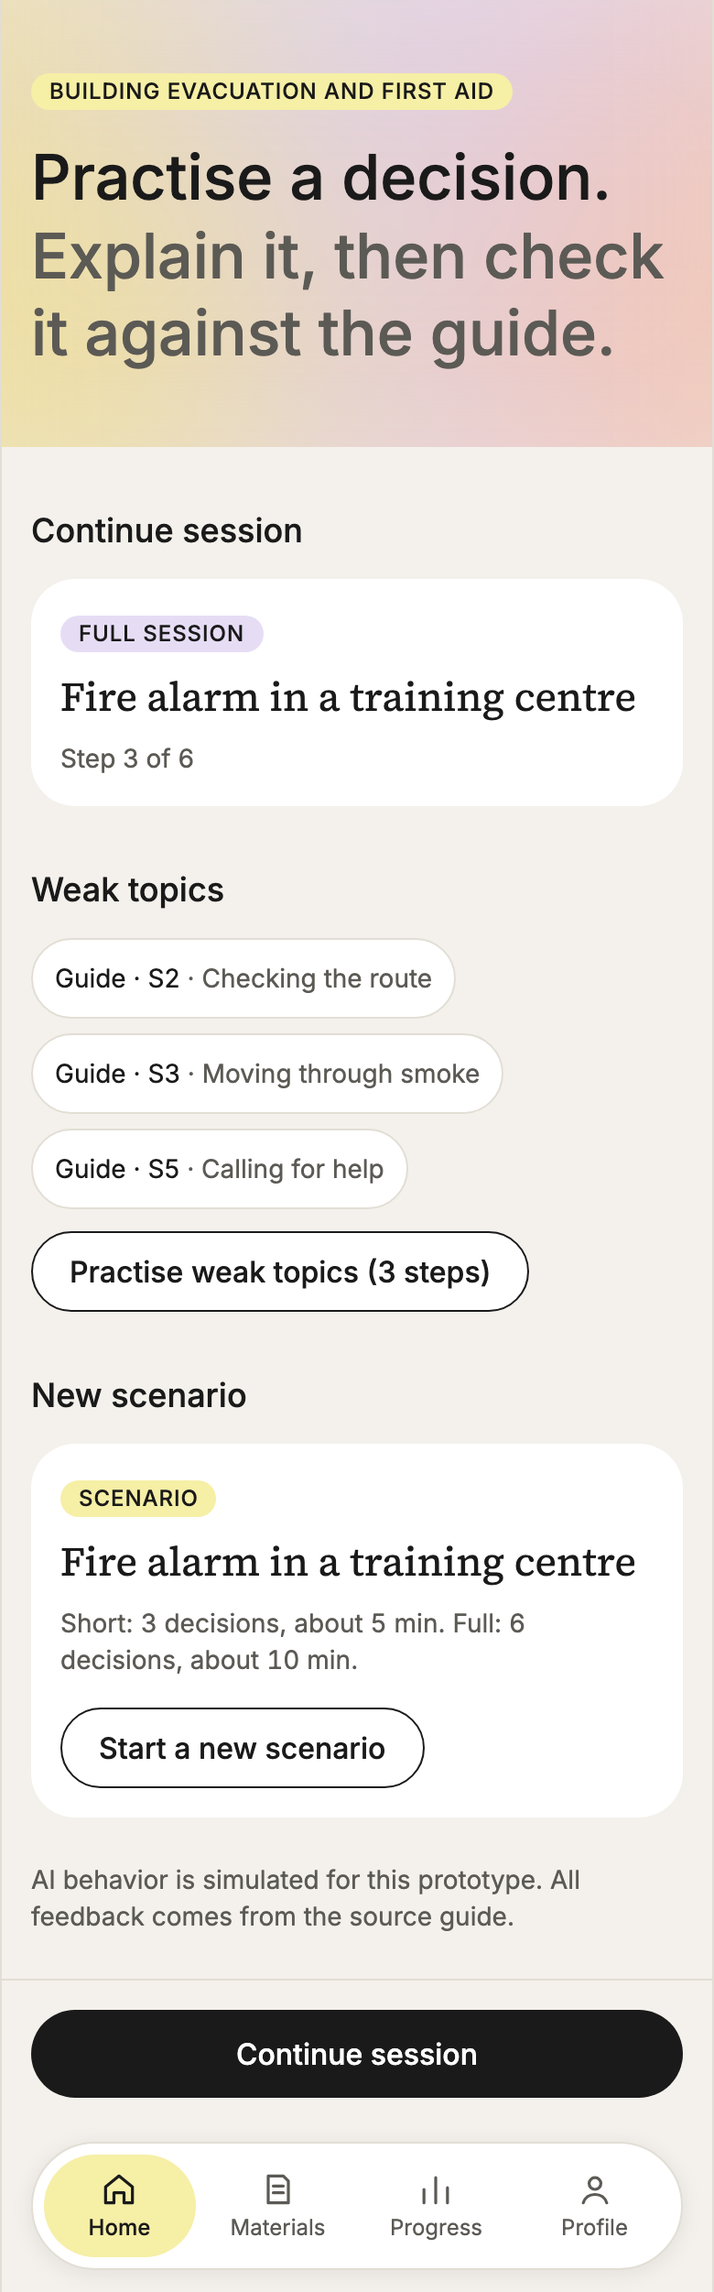
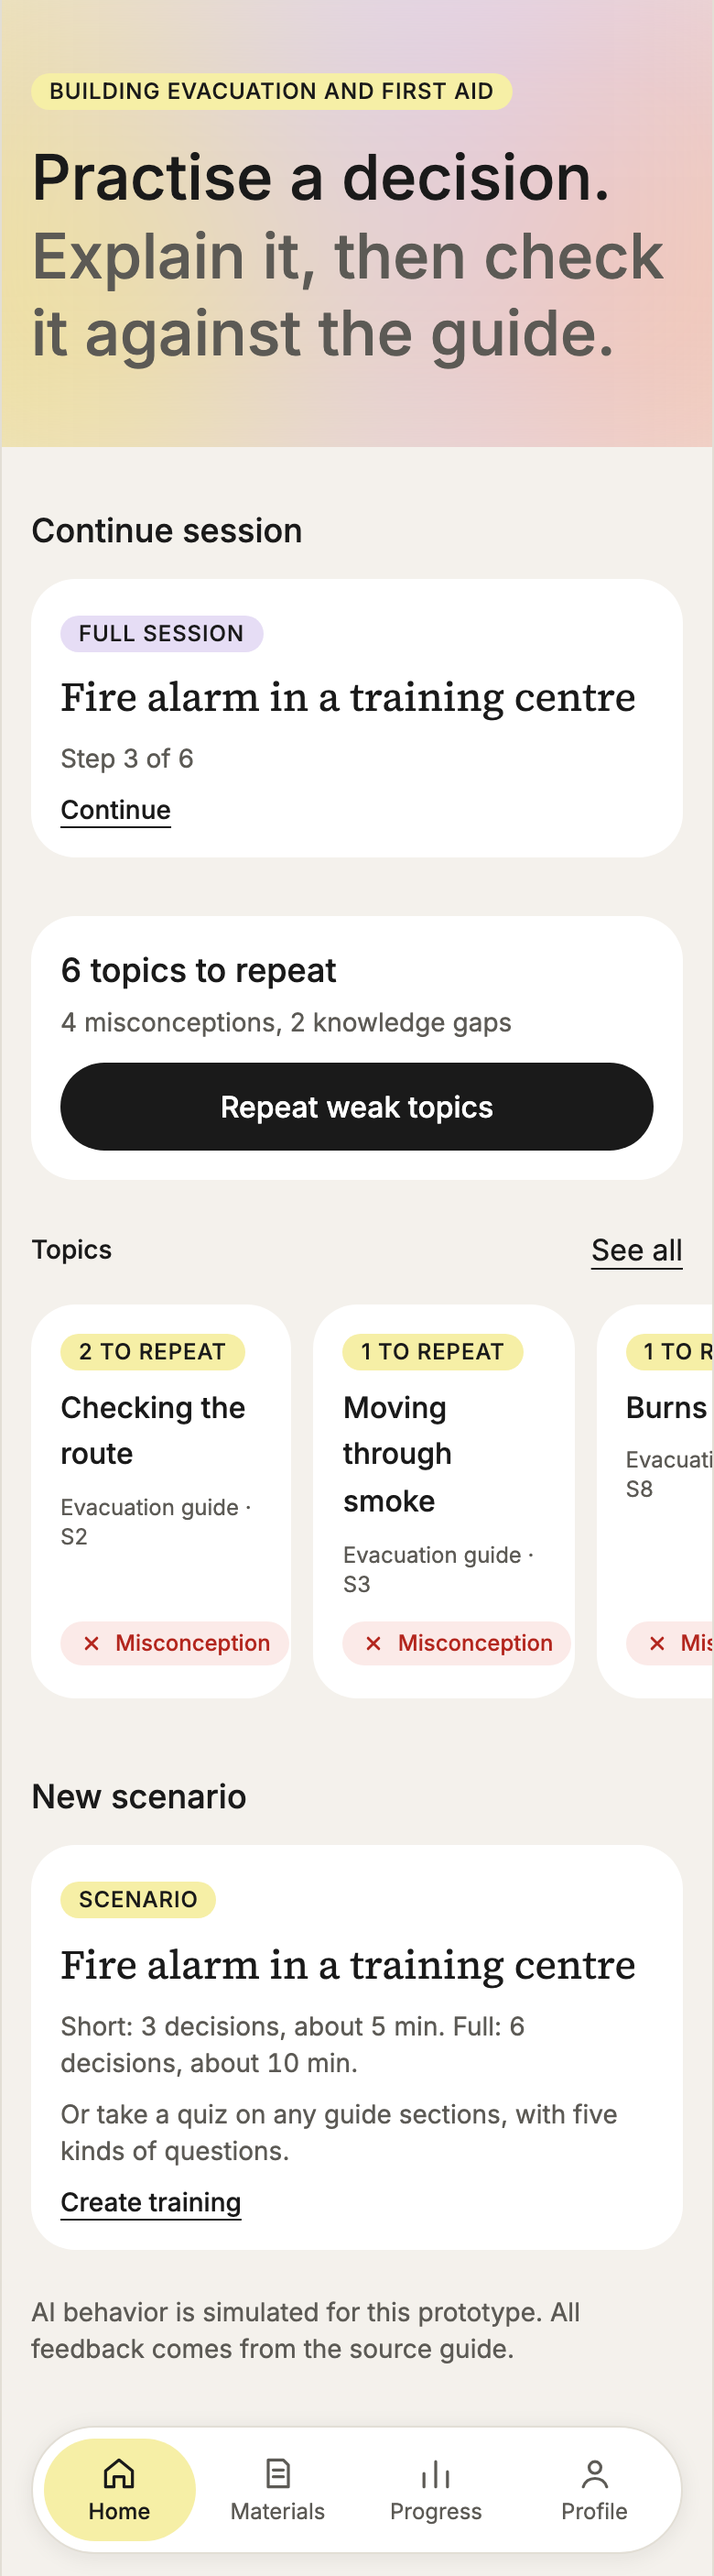
feat: repeat summary card and topic row on Home and Progress
One summary card with the topics to repeat, their error-type counts and
Repeat weak topics, and a sideways row of up to five topic cards that each
repeat one topic. Continue session and New scenario become tappable cards,
and Home no longer has a fixed button over its content.

diff --git a/components/HomeView/HomeView.tsx b/components/HomeView/HomeView.tsx
@@ -1,29 +1,26 @@
 "use client";
 
-import { ActionBar } from "@/components/ActionBar/ActionBar";
-import { ButtonLink } from "@/components/Button/Button";
-import { Card } from "@/components/Card/Card";
+import Link from "next/link";
 import { Gradient } from "@/components/Gradient/Gradient";
+import { RepeatSummary } from "@/components/RepeatSummary/RepeatSummary";
 import { Tag } from "@/components/Tag/Tag";
-import { WeakTopics } from "@/components/WeakTopics/WeakTopics";
 import { sessionLabel } from "@/lib/progress";
 import { getScenario, scenario, sessionLengths } from "@/lib/scenario";
 import type { ScoredItem } from "@/lib/scoring";
 import type { Session } from "@/lib/session";
+import type { WeakTopic } from "@/lib/weak-topics";
 import { isQuiz, isRepeatRound, itemCount } from "@/lib/session";
 
 export function HomeView({
   directionTitle,
   unfinished,
   weakItems,
-  onRepeatSteps,
-  onRepeatQuestions,
+  onRepeat,
 }: {
   directionTitle: string;
   unfinished: Session | null;
   weakItems: ScoredItem[];
-  onRepeatSteps: (stepIds: string[]) => void;
-  onRepeatQuestions: (questionIds: string[], sections: string[]) => void;
+  onRepeat: (topics: WeakTopic[]) => void;
 }) {
   return (
     <div className="flex flex-col gap-8">
@@ -43,7 +40,10 @@ export function HomeView({
           <h2 id="continue-title" className="text-lg font-medium">
             Continue session
           </h2>
-          <Card className="flex flex-col gap-2">
+          <Link
+            href="/session"
+            className="flex flex-col gap-2 rounded-card bg-surface p-4 hover:bg-surface-muted"
+          >
             <div>
               <Tag
                 tone={
@@ -70,21 +70,21 @@ export function HomeView({
               {isRepeatRound(unfinished) ? "Item" : isQuiz(unfinished) ? "Question" : "Step"}{" "}
               {unfinished.index + 1} of {itemCount(unfinished)}
             </p>
-          </Card>
+            <span className="text-sm font-medium underline underline-offset-4">Continue</span>
+          </Link>
         </section>
       )}
 
-      <WeakTopics
-        weakItems={weakItems}
-        onRepeatSteps={onRepeatSteps}
-        onRepeatQuestions={onRepeatQuestions}
-      />
+      <RepeatSummary weakItems={weakItems} onRepeat={onRepeat} />
 
       <section aria-labelledby="new-title" className="flex flex-col gap-3">
         <h2 id="new-title" className="text-lg font-medium">
           New scenario
         </h2>
-        <Card className="flex flex-col gap-2">
+        <Link
+          href="/training/evacuation-guide"
+          className="flex flex-col gap-2 rounded-card bg-surface p-4 hover:bg-surface-muted"
+        >
           <div>
             <Tag tone="yellow">Scenario</Tag>
           </div>
@@ -99,23 +99,9 @@ export function HomeView({
           <p className="text-sm text-text-secondary">
             Or take a quiz on any guide sections, with five kinds of questions.
           </p>
-          {unfinished && (
-            <div className="mt-2">
-              <ButtonLink href="/training/evacuation-guide" variant="secondary">
-                Start a new scenario
-              </ButtonLink>
-            </div>
-          )}
-        </Card>
+          <span className="text-sm font-medium underline underline-offset-4">Create training</span>
+        </Link>
       </section>
-
-      <ActionBar>
-        {unfinished ? (
-          <ButtonLink href="/session">Continue session</ButtonLink>
-        ) : (
-          <ButtonLink href="/training/evacuation-guide">New scenario</ButtonLink>
-        )}
-      </ActionBar>
     </div>
   );
 }

diff --git a/components/RepeatSummary/RepeatSummary.tsx b/components/RepeatSummary/RepeatSummary.tsx
@@ -1,0 +1,77 @@
+"use client";
+
+import { Button, ButtonLink } from "@/components/Button/Button";
+import { Card } from "@/components/Card/Card";
+import { TopicCard } from "@/components/TopicCard/TopicCard";
+import type { ScoredItem } from "@/lib/scoring";
+import type { WeakTopic } from "@/lib/weak-topics";
+import { countTopics, describeCounts, weakTopics } from "@/lib/weak-topics";
+
+const ROW_LIMIT = 5;
+
+/**
+ * The repeat summary card and the sideways row of up to five topic cards, by priority.
+ * Used on Home and Progress.
+ */
+export function RepeatSummary({
+  weakItems,
+  onRepeat,
+}: {
+  weakItems: ScoredItem[];
+  onRepeat: (topics: WeakTopic[]) => void;
+}) {
+  const topics = weakTopics(weakItems);
+
+  if (topics.length === 0) {
+    return (
+      <section aria-labelledby="repeat-title" className="flex flex-col gap-3">
+        <h2 id="repeat-title" className="text-lg font-medium">
+          Weak topics
+        </h2>
+        <Card>
+          <p className="text-text-secondary">
+            No weak topics yet. They appear here after a session or a quiz.
+          </p>
+        </Card>
+      </section>
+    );
+  }
+
+  return (
+    <section aria-labelledby="repeat-title" className="flex flex-col gap-4">
+      <Card className="flex flex-col gap-3">
+        <div className="flex flex-col gap-1">
+          <h2 id="repeat-title" className="text-lg font-medium">
+            <span className="tabular-nums">{topics.length}</span>{" "}
+            {topics.length === 1 ? "topic" : "topics"} to repeat
+          </h2>
+          <p className="text-sm text-text-secondary">{describeCounts(countTopics(topics))}</p>
+        </div>
+        <Button onClick={() => onRepeat(topics)}>Repeat weak topics</Button>
+      </Card>
+
+      <div className="flex flex-col gap-2">
+        <div className="flex items-center justify-between">
+          <h3 id="topics-title" className="text-sm font-medium">
+            Topics
+          </h3>
+          <div className="-mr-3">
+            <ButtonLink href="/weak-topics" variant="text">
+              See all
+            </ButtonLink>
+          </div>
+        </div>
+        <ul
+          aria-labelledby="topics-title"
+          className="-mx-4 flex snap-x gap-3 overflow-x-auto scroll-px-4 px-4 pb-2"
+        >
+          {topics.slice(0, ROW_LIMIT).map((topic) => (
+            <li key={topic.sectionId} className="w-[40%] min-w-[136px] shrink-0 snap-start">
+              <TopicCard topic={topic} onRepeat={() => onRepeat([topic])} />
+            </li>
+          ))}
+        </ul>
+      </div>
+    </section>
+  );
+}

diff --git a/components/ProgressView/ProgressView.tsx b/components/ProgressView/ProgressView.tsx
@@ -3,10 +3,11 @@
 import { ButtonLink } from "@/components/Button/Button";
 import { Card } from "@/components/Card/Card";
 import { Tag } from "@/components/Tag/Tag";
-import { WeakTopics } from "@/components/WeakTopics/WeakTopics";
+import { RepeatSummary } from "@/components/RepeatSummary/RepeatSummary";
 import { formatPoints, scoreSession, sessionLabel, weakItemsFromHistory } from "@/lib/progress";
 import { totalScore, weakItems } from "@/lib/scoring";
 import type { FinishedSession } from "@/lib/session";
+import type { WeakTopic } from "@/lib/weak-topics";
 
 const dateFormat = new Intl.DateTimeFormat("en-GB", {
   day: "numeric",
@@ -52,8 +53,18 @@ function HistoryRow({ session }: { session: FinishedSession }) {
         ) : (
           <>
             <span className="tabular-nums">{weak}</span>{" "}
-            {quiz ? (weak === 1 ? "question" : "questions") : weak === 1 ? "step" : "steps"} wrong,
-            partly right or guessed.
+            {session.kind === "repeat"
+              ? weak === 1
+                ? "item"
+                : "items"
+              : quiz
+                ? weak === 1
+                  ? "question"
+                  : "questions"
+                : weak === 1
+                  ? "step"
+                  : "steps"}{" "}
+            wrong, partly right or guessed.
           </>
         )}
       </p>
@@ -63,12 +74,10 @@ function HistoryRow({ session }: { session: FinishedSession }) {
 
 export function ProgressView({
   history,
-  onRepeatSteps,
-  onRepeatQuestions,
+  onRepeat,
 }: {
   history: FinishedSession[];
-  onRepeatSteps: (stepIds: string[]) => void;
-  onRepeatQuestions: (questionIds: string[], sections: string[]) => void;
+  onRepeat: (topics: WeakTopic[]) => void;
 }) {
   return (
     <div className="flex flex-col gap-8">
@@ -86,11 +95,7 @@ export function ProgressView({
         </div>
       ) : (
         <>
-          <WeakTopics
-            weakItems={weakItemsFromHistory(history)}
-            onRepeatSteps={onRepeatSteps}
-            onRepeatQuestions={onRepeatQuestions}
-          />
+          <RepeatSummary weakItems={weakItemsFromHistory(history)} onRepeat={onRepeat} />
           <section aria-labelledby="history-title" className="flex flex-col gap-3">
             <h2 id="history-title" className="text-lg font-medium">
               Session history

diff --git a/components/TopicCard/TopicCard.tsx b/components/TopicCard/TopicCard.tsx
@@ -1,0 +1,36 @@
+"use client";
+
+import { useSourceSheet } from "@/components/SourceSheet/SourceSheet";
+import { StatusBadge } from "@/components/StatusBadge/StatusBadge";
+import { Tag } from "@/components/Tag/Tag";
+import type { WeakTopic } from "@/lib/weak-topics";
+import { materialForSection } from "@/lib/weak-topics";
+
+/** The section title, for example "Checking the route", or the code if it is unknown. */
+export function useTopicName(sectionId: string) {
+  const { sections } = useSourceSheet();
+  return sections.find((section) => section.id === sectionId)?.title ?? sectionId;
+}
+
+/** A weak topic in the sideways row. The whole card repeats only this topic. */
+export function TopicCard({ topic, onRepeat }: { topic: WeakTopic; onRepeat: () => void }) {
+  const name = useTopicName(topic.sectionId);
+  const count = topic.items.length;
+  return (
+    <button
+      type="button"
+      onClick={onRepeat}
+      aria-label={`Repeat ${name}: ${count} to repeat, ${materialForSection(topic.sectionId)} ${topic.sectionId}`}
+      className="flex h-full w-full flex-col items-start gap-2 rounded-card bg-surface p-4 text-left hover:bg-surface-muted"
+    >
+      <Tag tone={topic.sectionId.startsWith("F") ? "blue" : "yellow"}>{`${count} to repeat`}</Tag>
+      <span className="font-medium">{name}</span>
+      <span className="text-xs text-text-secondary">
+        {materialForSection(topic.sectionId)} · {topic.sectionId}
+      </span>
+      <span className="mt-auto pt-1">
+        <StatusBadge status={topic.errorType} />
+      </span>
+    </button>
+  );
+}

diff --git a/app/(app)/page.tsx b/app/(app)/page.tsx
@@ -5,7 +5,8 @@ import { useEffect } from "react";
 import { HomeView } from "@/components/HomeView/HomeView";
 import { directionTitle } from "@/lib/directions";
 import { weakItemsFromHistory } from "@/lib/progress";
-import { startQuiz, startSession, useHistory, useProfile, useSession } from "@/lib/session";
+import { repeatItems } from "@/lib/weak-topics";
+import { startRepeatRound, useHistory, useProfile, useSession } from "@/lib/session";
 
 export default function Home() {
   const router = useRouter();
@@ -27,12 +28,11 @@ export default function Home() {
       directionTitle={directionTitle(profile?.direction)}
       unfinished={session && !session.finished ? session : null}
       weakItems={weakItemsFromHistory(history)}
-      onRepeatSteps={(stepIds) => {
-        startSession("repeat", stepIds);
-        router.push("/session");
-      }}
-      onRepeatQuestions={(questionIds, sections) => {
-        startQuiz(questionIds, sections, true);
+      onRepeat={(topics) => {
+        startRepeatRound(
+          repeatItems(topics),
+          topics.map((topic) => topic.sectionId),
+        );
         router.push("/session");
       }}
     />

diff --git a/app/(app)/progress/page.tsx b/app/(app)/progress/page.tsx
@@ -2,7 +2,8 @@
 
 import { useRouter } from "next/navigation";
 import { ProgressView } from "@/components/ProgressView/ProgressView";
-import { startQuiz, startSession, useHistory } from "@/lib/session";
+import { repeatItems } from "@/lib/weak-topics";
+import { startRepeatRound, useHistory } from "@/lib/session";
 
 export default function Progress() {
   const router = useRouter();
@@ -13,12 +14,11 @@ export default function Progress() {
   return (
     <ProgressView
       history={history ?? []}
-      onRepeatSteps={(stepIds) => {
-        startSession("repeat", stepIds);
-        router.push("/session");
-      }}
-      onRepeatQuestions={(questionIds, sections) => {
-        startQuiz(questionIds, sections, true);
+      onRepeat={(topics) => {
+        startRepeatRound(
+          repeatItems(topics),
+          topics.map((topic) => topic.sectionId),
+        );
         router.push("/session");
       }}
     />

diff --git a/app/screens/samples.tsx b/app/screens/samples.tsx
@@ -195,8 +195,7 @@ export function HomeSample({ withProgress = false }: { withProgress?: boolean })
           : null
       }
       weakItems={withProgress ? currentWeakItems(sampleAnswers) : []}
-      onRepeatSteps={() => undefined}
-      onRepeatQuestions={() => undefined}
+      onRepeat={() => undefined}
     />
   );
 }
@@ -225,13 +224,7 @@ export function ProgressSample({ withHistory = false }: { withHistory?: boolean 
         },
       ]
     : [];
-  return (
-    <ProgressView
-      history={history}
-      onRepeatSteps={() => undefined}
-      onRepeatQuestions={() => undefined}
-    />
-  );
+  return <ProgressView history={history} onRepeat={() => undefined} />;
 }
 
 export function OnboardingSample({ start }: { start: OnboardingStep }) {
